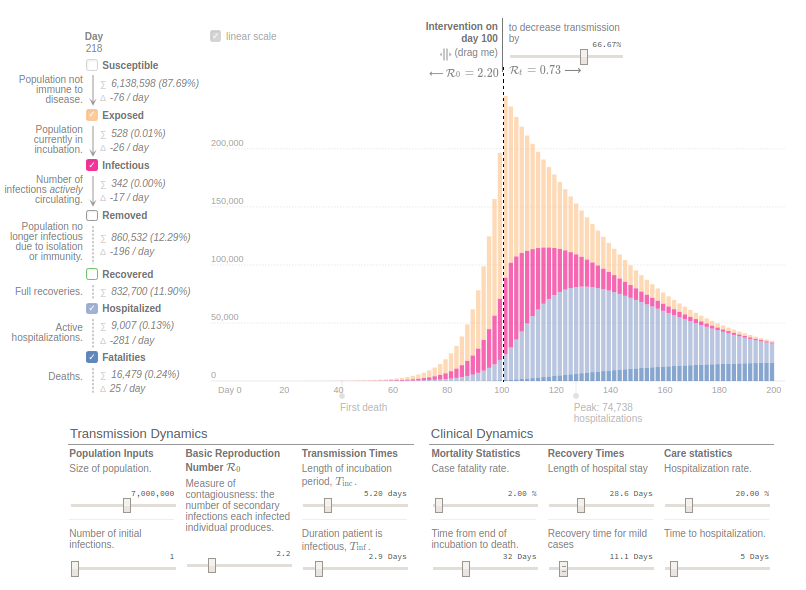
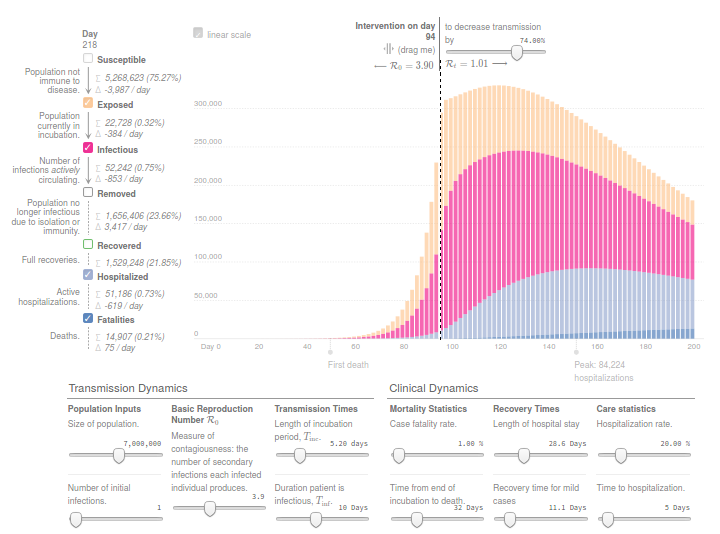
Update epidemic calculator applied to Madrid

diff --git a/index.html b/index.html
@@ -45,7 +45,7 @@
         </li>
         <ul>
         <li class="nav-item">
-          <a class="nav-link js-scroll-trigger" href="#covid19-ref-tweets">Context</a>
+          <a class="nav-link js-scroll-trigger" href="#covid19-estimates">Context</a>
         </li>
         <li class="nav-item">
           <a class="nav-link js-scroll-trigger" href="#covid19-ages">Analysis</a>
@@ -101,14 +101,16 @@
         <p>New <a href="#covid19">COVID-19 sections</a>, with:
           <ul>
             <li>
+              Context on <!--<a href="#covid19-ref-tweets">articles</a>,-->
+              <a href="#covid19-estimates">confirmed cases vs estimates</a>, <a href="#covid19-estimates-deaths">mortality</a>, <a href="#covid19-data">data sources</a>...
+            </li>
+            <li>
             Analysis of <a href="#covid19-ages">confirmed cases by age</a>
           </li>
           <li>
             Simulations with <a href="#covid19-epcalc">Epidemic Calculator</a>
           </li>
-          <li>
-            References on <a href="#covid19-ref-tweets">articles</a>, <a href="#covid19-data">data sources</a>...
-          </li>
+
           </ul>
         </p>
 
@@ -139,7 +141,7 @@
       <div class="w-100">
         <h2 class="mb-5">COVID-19</h2>
 
-        <div class="resume-item d-flex flex-column flex-md-row justify-content-between mb-5" id="covid19-ref-tweets">
+        <div class="resume-item d-flex flex-column flex-md-row justify-content-between mb-5" id="covid19-estimates">
           <div class="resume-content">
             <h3 class="mb-0">Estimates and Context. Language matters</h3>
             <div class="subheading mb-3">Confirmed cases vs. estimates of actual infections</div>
@@ -155,7 +157,7 @@
             For instance, the following values have been reported by the
             <a href="https://www.imperial.ac.uk/media/imperial-college/medicine/mrc-gida/2020-04-03-COVID19-Report-14.pdf">
               Imperial College London COVID-19 Response Team
-            <img src="img/imperial_college_estimates.png" width="90%">
+            <img src="img/imperial_college_estimates.png" width="100%">
           </a>
         </p>
           <p>
@@ -166,12 +168,12 @@
         </p>
         <p><a href="https://twitter.com/kikollan">Kiko Llaneras</a> et al also published at
           <a href="https://elpais.com/sociedad/2020/03/17/actualidad/1584436648_230452.html">elpais.com</a>
-          4 different estimates, from different researchers and models, ranging from 150K to 900K expected infections
+          4 different calculations, from different researchers and models, ranging from 150K to 900K expected infections
           in Spain at March 24th. When confirmed cases were below 40K according to Spanish government.
             <blockquote class="twitter-tweet"><p lang="es" dir="ltr">🔎¿Cuántos infectados hay realmente en España? Seguramente cientos de miles. Repaso cuatro cálculos sencillos pero orientativos que arrojan cifras del orden de 300.000 o 900.000 casos: <a href="https://t.co/cACMrd9MHY">https://t.co/cACMrd9MHY</a></p>&mdash; Kiko Llaneras (@kikollan) <a href="https://twitter.com/kikollan/status/1242759416446926848?ref_src=twsrc%5Etfw">March 25, 2020</a></blockquote> <script async src="https://platform.twitter.com/widgets.js" charset="utf-8"></script>
 
 
-          While the estimates of Imperial College have been broadly communicated in mass media, often ignoring
+          While the estimations of Imperial College have been broadly communicated in mass media, often ignoring
           the main <strong>assumptions</strong> and confidence intervals underlying the gross numbers,
           I think data team at <i>elpais.com</i>, and specially Llaneras is doing a god job on communicating the numbers
           but also contextualizing assumptions under these numbers.
@@ -197,19 +199,55 @@
             </p>
 
 
-            <div class="subheading mb-3" id="covid19-momo-spain">Reported deaths vs estimates of actual deaths.</div>
+            <div class="subheading mb-3" id="covid19-estimates-deaths">Reported deaths vs estimates of actual deaths.</div>
               <!--MoMo: Monitoring of Excess Mortality-->
               <p>
-                Moreover the number of confirmed and notified deaths is also an estimate of actual deaths caused by the virus.
-                And specially in some countries/regions this value could be highly underestimated.
+                Moreover the number of confirmed and notified deaths is also an estimation of actual deaths caused by the virus.
+                And specially in some countries/regions this value could be highly undervalued.
                 Statistics on mortality monitoring on all causes, as project <a href="https://www.euromomo.eu/">EuroMomo</a> does,
                 can be useful to infer alternative (and better) estimates based on excess mortality.
+                This project was launched in 2008 and it uses data from a network of 29 partner Institutes from 26 countries.
+                They have accessible maps with weekly estimated deviations from the baseline
+                (<a href="https://www.euromomo.eu/outputs/images/z-score_lightbox.fw.png">z-scores</a>)
+                 from week 1 of 2010 up until today. And charts with disaggregated <a href"https://www.euromomo.eu/outputs/zscore_country_total.html">
+                data by country and age range</a> for the past 4½ years.
                 <!--In a following section there are some <a href="#covid19-momo-spain">examples extracted from Spanish MoMo Reports 2020</a>
 -->
               </p>
                 <p>
                 <img src="https://www.euromomo.eu/slices/Maps-2020/MAP-2020-13.png" width="90%">
               </p>
+
+              <p>Despite the dramatic situation in many places, differences are still huge even for regions in the same country.
+                For instance, the following charts belong to the
+                <a href="https://www.isciii.es/QueHacemos/Servicios/VigilanciaSaludPublicaRENAVE/EnfermedadesTransmisibles/MoMo/Documents/informesMoMo2020/MoMo_Situacion%20a%202%20de%20abril_CNE.pdf">
+                  Spanish MoMo report (April 2th):
+              <img src="img/momo_spain.png" width="75%">
+              <img src="img/momo_madrid.png" width="80%">
+                <img src="img/momo_canarias.png" width="80%">
+              </a>
+              </p>
+              <p>
+                We can observe excess mortality has been yet dramatically huge in the second figure representing the Region of Madrid.
+
+                 However the third figure represents Canary Islands, where the first case in Spain was diagnosed.
+                 And it shows the impact on mortality in this region has been much lower.
+              </p>
+              <p>MoMo project in Spain collect information of aproximately 4K civil registers,
+                with a coverage of the 92% of the Spanish population. Estimates of expected mortality are based
+                on historical averages of observed mortality since January 1th 2008 until one year before the current date.
+              </p>
+              <p>
+                Fortunately, after the hard confinement measures decreed by the Spanish Government,
+                both regions have current estimations of Basic Reproduction Number (R0) at April 4th near of under 1.
+                According to official
+                <a href="https://portalcne.isciii.es/covid19/">estimates by the Spanish Ministry of Healthcare</a>,
+                R0 estimates would be 1.02 for Madrid and 0.75 for the Canary Islands.
+              </p>
+
+
+                          <div class="subheading mb-3" id="covid19-momo-spain">Reported case fatality rates vs estimates of actual fatality rates.</div>
+
               <p>
                 It seems that COVID-19 virus (SARS-CoV-2) could be less lethal in relative terms than current figures we get in Italy or Spain
                 (<i>estimated deaths/estimated infections</i> would be lower than </i>confirmed deaths/confirmed cases</i>).
@@ -236,38 +274,15 @@
             </p>
 
 
-              <p>Despite the dramatic situation in many places, differences are still huge even for regions in the same country.
-                For instance, the following charts belong to the
-                <a href="https://www.isciii.es/QueHacemos/Servicios/VigilanciaSaludPublicaRENAVE/EnfermedadesTransmisibles/MoMo/Documents/informesMoMo2020/MoMo_Situacion%20a%202%20de%20abril_CNE.pdf">
-                  Spanish MoMo report (April 2th):
-              <img src="img/momo_spain.png" width="75%">
-              <img src="img/momo_madrid.png" width="80%">
-                <img src="img/momo_canarias.png" width="80%">
-              </a>
-              </p>
-              <p>
-                We can observe excess mortality has been yet dramatically huge in the second figure representing the Region of Madrid.
-
-                 However the third figure represents Canary Islands, where the first case in Spain was diagnosed.
-                 And it shows the impact on mortality in this region has been much lower.
-              </p>
-              <p>
-                Fortunately, after the hard confinement measures decreed by the Spanish Government,
-                both regions have current estimations of Basic Reproduction Number (R0) at April 4th near of under 1.
-                According to official
-                <a href="https://portalcne.isciii.es/covid19/">estimates by the Spanish Ministry of Healthcare</a>,
-                R0 estimates would be 1.02 for Madrid and 0.75 for the Canary Islands.
-              </p>
-
             </div>
 
       </div>
 
 
 
-      <div class="resume-item d-flex flex-column flex-md-row justify-content-between mb-5" id="covid19-ages">
+      <div class="resume-item d-flex flex-column flex-md-row justify-content-between mb-5" >
         <div class="resume-content">
-          <h3 class="mb-0">Analysis: Confirmed Cases by Age Groups</h3>
+          <h3 class="mb-0" id="covid19-ages">Analysis: Confirmed Cases by Age Groups </h3>
           <div class="subheading mb-3">Spain vs Germany</div>
 
           <p>The number of confirmed cases in Germany at 5 April is higher than 96K people, not so far from 130K confirmed cases in Spain
@@ -328,30 +343,56 @@
 
 
 
-        <div class="resume-item d-flex flex-column flex-md-row justify-content-between mb-5" id="covid19-epcalc">
+        <div class="resume-item d-flex flex-column flex-md-row justify-content-between mb-5" >
           <div class="resume-content">
-            <h3 class="mb-0">Simulation: Epidemic Calculator</h3>
+            <h3 class="mb-0" id="covid19-epcalc">Simulation: Epidemic Calculator</h3>
             <div class="subheading mb-3">SEIR Model applied to Madrid</div>
-            <p>13 parameter model <a href="https://gabgoh.github.io/COVID/index.html?p_num_ind=300000&CFR=0.01&D_hospital_lag=5&D_incbation=5.2&D_infectious=2.9&D_recovery_mild=11.1&D_recovery_severe=28.6&I0=1&InterventionAmt=0.33333333333333337&InterventionTime=100&P_SEVERE=0.2&R0=2.2&Time_to_death=32&logN=15.761420707019587">simulation of COVID-19 evolution on Region of Madrid (Spain)
-            </a>. This calculator implements a classical infectious disease model:
-            SEIR (Susceptible → Exposed → Infected → Removed) [Wu, et. al, Kucharski et. al].
+            <p>
+              <!--
+              <a href="https://gabgoh.github.io/COVID/index.html?p_num_ind=300000&CFR=0.01&D_hospital_lag=5&D_incbation=5.2&D_infectious=2.9&D_recovery_mild=11.1&D_recovery_severe=28.6&I0=1&InterventionAmt=0.33333333333333337&InterventionTime=100&P_SEVERE=0.2&R0=2.2&Time_to_death=32&logN=15.761420707019587">Simulation of COVID-19 evolution on Region of Madrid (Spain)
+            </a> -->
+            This <a href="https://gabgoh.github.io/COVID/index.html?CFR=0.01&D_hospital_lag=5&D_incbation=5.2&D_infectious=10&D_recovery_mild=11.1&D_recovery_severe=28.6&I0=1&InterventionAmt=0.26&InterventionTime=94.4&P_SEVERE=0.2&R0=3.9&Time_to_death=32&logN=15.761420707019587">simulator</a> implements a classical infectious disease model:
+            <i>SEIR (Susceptible → Exposed → Infected → Removed)</i> [<a href="https://www.thelancet.com/journals/lancet/article/PIIS0140-6736(20)30260-9/fulltext">Wu, et. al</a>, Kucharski et. al].
+            The model uses 13 parameters, including <i>Mortality statistics</i> and the <i>Basic Reproduction Number (R0)</i> before and after the <i>Intervention</i> day.
 </p>
 <p>
-I tried to adjust the evolution of confirmed deaths (<i>Fatalities</i>) in Madrid since the day this number was over N=10.
+I tried to adjust the evolution of confirmed deaths (<i>Fatalities</i>) in the Region of Madrid since the day this number was over N=10.
 Displacing <i>Intervention</i> day relatively to this reference. And ignoring the <i>Day 0</i> as time origin.
-I expect that following trends of confirmed fatalities would propagate less uncertainty
-and provide more reliable estimates than starting from the first confirmed case.
+<!--I expect that following trends of confirmed fatalities would propagate less uncertainty
+and provide more reliable estimates than starting from the first confirmed case.-->
+</p>
 
+
+<!--
 <a href="https://gabgoh.github.io/COVID/index.html?p_num_ind=300000&CFR=0.01&D_hospital_lag=5&D_incbation=5.2&D_infectious=2.9&D_recovery_mild=11.1&D_recovery_severe=28.6&I0=1&InterventionAmt=0.33333333333333337&InterventionTime=100&P_SEVERE=0.2&R0=2.2&Time_to_death=32&logN=15.761420707019587">
+-->
+<a href="https://gabgoh.github.io/COVID/index.html?CFR=0.01&D_hospital_lag=5&D_incbation=5.2&D_infectious=10&D_recovery_mild=11.1&D_recovery_severe=28.6&I0=1&InterventionAmt=0.26&InterventionTime=94.4&P_SEVERE=0.2&R0=3.9&Time_to_death=32&logN=15.761420707019587"</a>
   <img src="img/epcalc_madrid.png" width="100%"></img>
 </a>
+  </p>
+  <p> Concretely, the number of reported deaths on the Region of Madrid at 14th March, when the Spanish Government decreeted
+    the state of Alarm, was 213. While only 7 days before, the number was 16. And 3 weeks later this number increased from 213 to
+    5136, according to <a href="https://covid19.isciii.es/resources/serie_historica_acumulados.csv">covid19.iscii.es data</a>.
+  </p>
+  <p>
+    I used 1% as <i>Mortality Statistics</i> and 10 days for <i>T<small>inf</small> (Duration patient is infectious)</i>.
+    And in order to fit the evolution of confirmed deaths R0 was established to 3.9 before the intervention
+    and 1.0 after the intervention.
+  </p>
+  <p>
+    I think the model is useful to have an idea of the interconnected variables and effects.
+    <!--And trying to fit the different parameters according to the last knowledge available.-->
+    But results from this model should be read with caution.
+    Moreover, appart from the uncertainty introduced by many different estimated paramters and hidden variables,
+    this implementation of SEIR ignores the effect of the healthcare capacity system,
+    and the possibility on mortality increase due to ICU bed shortage.
   </p>
             <p>Thanks to <a href="https://github.com/gabgoh/epcalc">Gabriel Goh epcalc</a> project.
             </p>
 
           </div>
           <div class="resume-date text-md-right">
-            <span class="text-primary">March 2020</span>
+            <span class="text-primary">6/4/2020</span>
           </div>
         </div>
 
@@ -381,7 +422,7 @@ and provide more reliable estimates than starting from the first confirmed case.
               </li>
             </ul>
             </p>
-            <div class="subheading mb-3">Reports</div>
+            <div class="subheading mb-3">Reports, articles, papers...</div>
             <p>
             <ul>
               <li><a href="https://ourworldindata.org/coronavirus">Our World in Data. Coronavirus Disease (COVID-19) – Statistics and Research</a>
@@ -405,11 +446,17 @@ and provide more reliable estimates than starting from the first confirmed case.
               <li>
                 <a href="https://www.mscbs.gob.es/profesionales/saludPublica/ccayes/alertasActual/nCov-China/documentos/20200404_ITCoronavirus.pdf">Información científica-técnica. Enfermedad por coronavirus, COVID-19 (4th April, Spanish)</a>
               </li>
+              <li>
+                <a href="https://www.thelancet.com/action/showPdf?pii=S0140-6736%2820%2930260-9">
+                    Nowcasting and forecasting the potential domestic and international spread of the 2019-nCoV outbreak originating in Wuhan, China: a modelling study
+                  </a>
             </ul>
+
+
             </p>
           </div>
           <div class="resume-date text-md-right">
-            <span class="text-primary">March 2020</span>
+            <span class="text-primary">6/4/2020</span>
           </div>
         </div>
 
